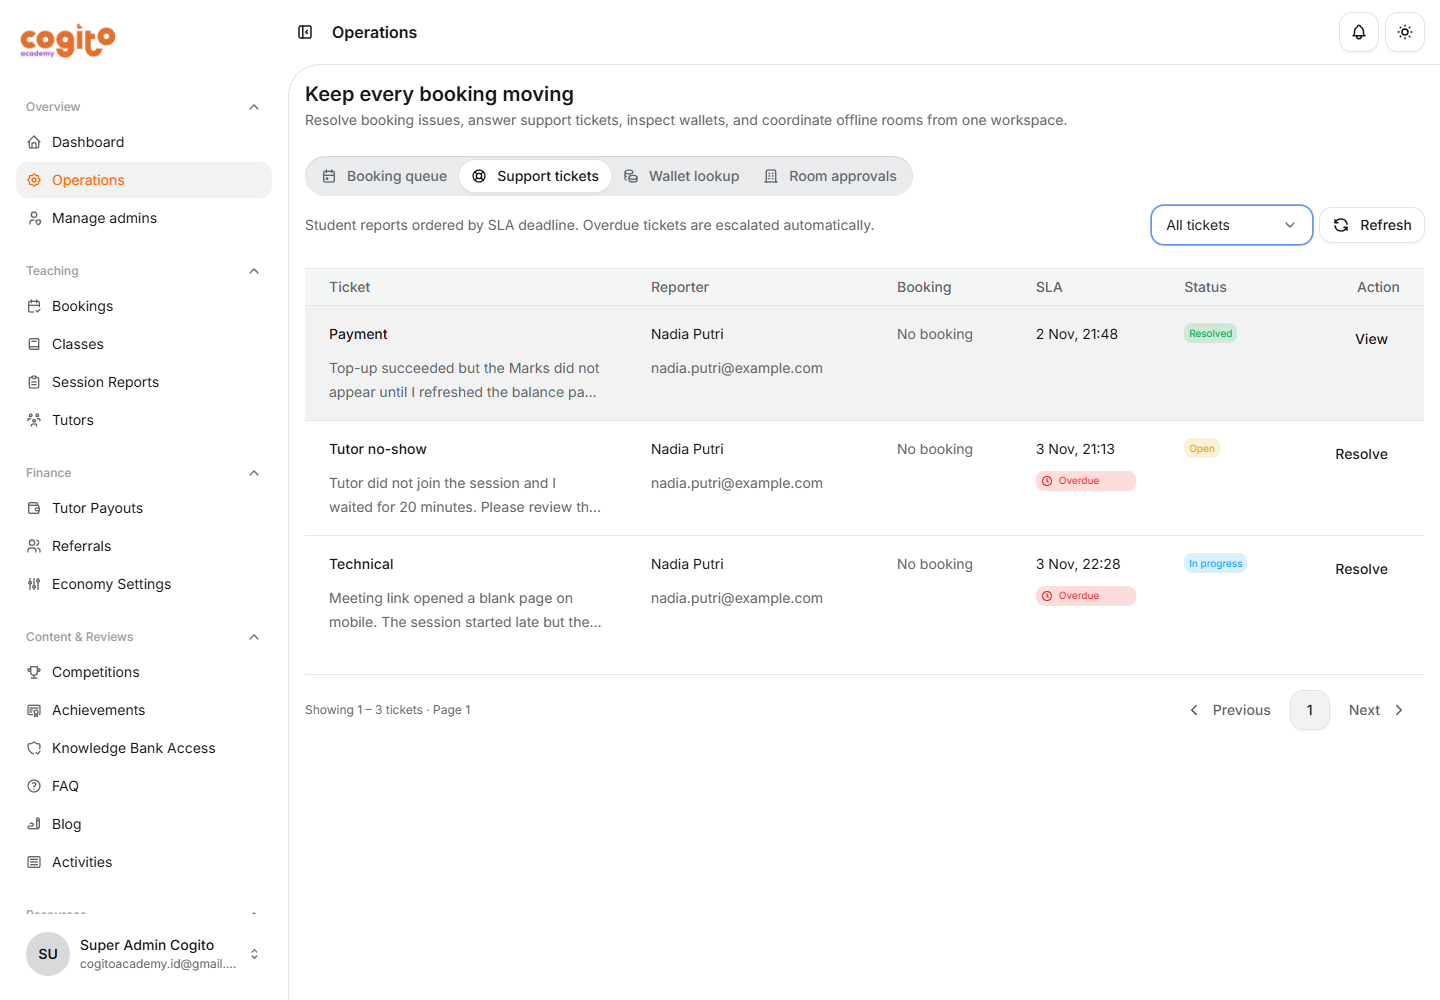
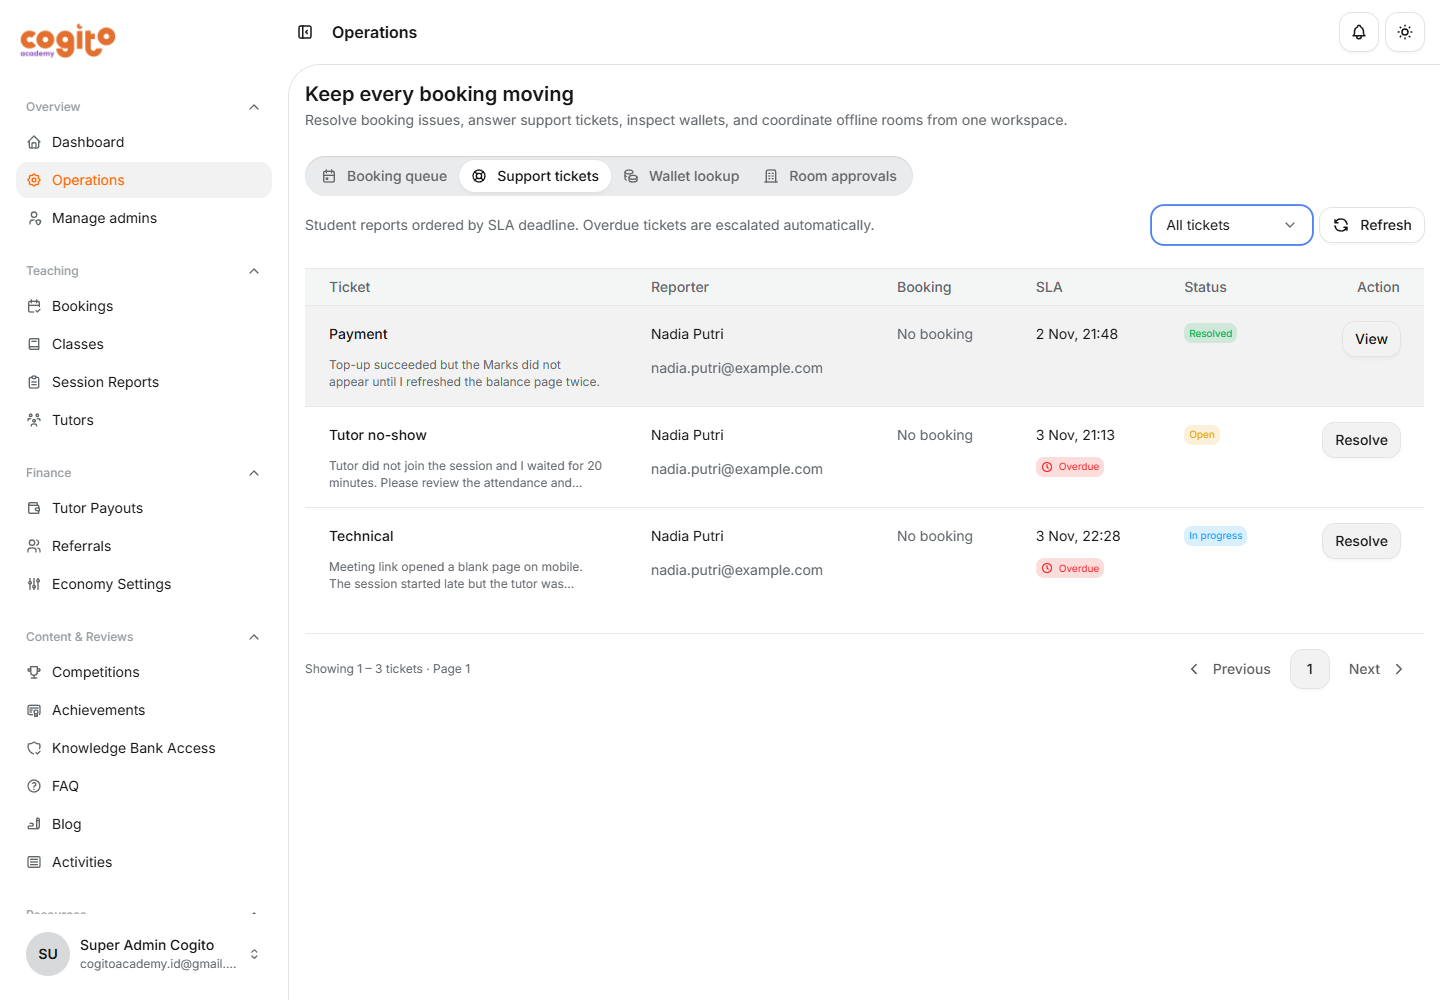
fix(admin): tighten support ticket table and mobile scrolling
Use smaller ticket descriptions, keep overdue badges content-sized, restore a horizontally scrollable table on mobile, and give row actions a visible background.

diff --git a/apps/web/src/components/admin/support-tickets-panel.tsx b/apps/web/src/components/admin/support-tickets-panel.tsx
@@ -253,14 +253,14 @@ export function SupportTicketsPanel() {
         />
       ) : (
         <TableContainer id="support-tickets">
-          <Table>
+          <Table className="min-w-[760px]">
             <TableHeader>
               <TableRow>
                 <TableHead>Ticket</TableHead>
-                <TableHead className="hidden sm:table-cell">Reporter</TableHead>
-                <TableHead className="hidden md:table-cell">Booking</TableHead>
-                <TableHead className="hidden md:table-cell">SLA</TableHead>
-                <TableHead className="hidden md:table-cell">Status</TableHead>
+                <TableHead>Reporter</TableHead>
+                <TableHead>Booking</TableHead>
+                <TableHead>SLA</TableHead>
+                <TableHead>Status</TableHead>
                 <TableHead className="text-right">Action</TableHead>
               </TableRow>
             </TableHeader>
@@ -272,29 +272,12 @@ export function SupportTicketsPanel() {
                       <Text className="font-medium">
                         {CATEGORY_LABELS[ticket.category] ?? ticket.category}
                       </Text>
-                      <Text className="line-clamp-2 text-muted">
+                      <Text className="line-clamp-2 text-sm text-muted">
                         {ticket.description}
                       </Text>
-                      <div className="flex flex-wrap items-center gap-2 md:hidden">
-                        <Badge variant={statusVariant(ticket.status)} size="sm">
-                          {STATUS_LABELS[ticket.status as StatusFilter] ??
-                            ticket.status}
-                        </Badge>
-                        <Text className="text-muted">
-                          SLA {formatDeadline(ticket.slaDeadline)}
-                        </Text>
-                        <Text className="text-muted">
-                          {ticket.reporterName ?? ticket.reporterEmail}
-                        </Text>
-                        {isOverdue(ticket, now) ? (
-                          <Badge variant="danger" size="sm">
-                            <IconClock /> Overdue
-                          </Badge>
-                        ) : null}
-                      </div>
                     </Stack>
                   </TableCell>
-                  <TableCell className="hidden align-top sm:table-cell">
+                  <TableCell className="align-top">
                     <Stack direction="column" spacing="sm">
                       <Text>{ticket.reporterName ?? "Unknown student"}</Text>
                       <Text className="text-muted">
@@ -302,24 +285,24 @@ export function SupportTicketsPanel() {
                       </Text>
                     </Stack>
                   </TableCell>
-                  <TableCell className="hidden align-top md:table-cell">
+                  <TableCell className="align-top">
                     {ticket.bookingNumber ? (
                       <Text>#{ticket.bookingNumber}</Text>
                     ) : (
                       <Text className="text-muted">No booking</Text>
                     )}
                   </TableCell>
-                  <TableCell className="hidden align-top md:table-cell">
+                  <TableCell className="align-top">
                     <Stack direction="column" spacing="sm">
                       <Text>{formatDeadline(ticket.slaDeadline)}</Text>
                       {isOverdue(ticket, now) ? (
-                        <Badge variant="danger" size="sm">
+                        <Badge variant="danger" size="sm" className="w-fit">
                           <IconClock /> Overdue
                         </Badge>
                       ) : null}
                     </Stack>
                   </TableCell>
-                  <TableCell className="hidden align-top md:table-cell">
+                  <TableCell className="align-top">
                     <Badge variant={statusVariant(ticket.status)} size="sm">
                       {STATUS_LABELS[ticket.status as StatusFilter] ??
                         ticket.status}
@@ -327,7 +310,7 @@ export function SupportTicketsPanel() {
                   </TableCell>
                   <TableCell className="text-right align-top">
                     <Button
-                      variant="plain"
+                      variant="secondary"
                       size="sm"
                       onClick={() => openTicket(ticket)}
                     >
